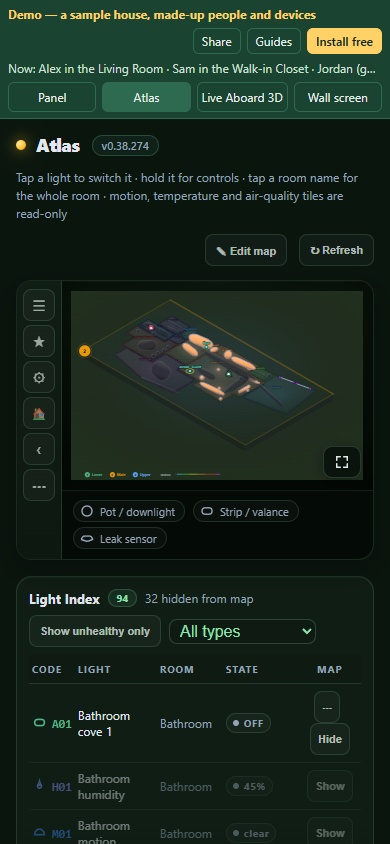
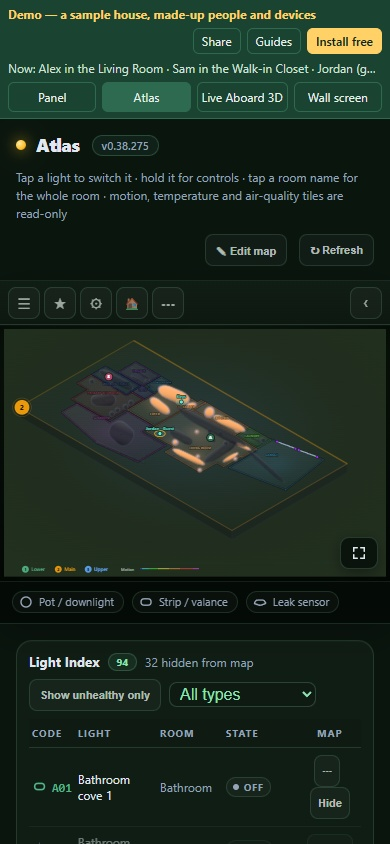
Atlas names: more room around badges and tags' names, finer spots in narrow rooms; demo pictures re-shot
The people layer keeps a little room around a badge or a tag's name, and a
name has up to ten spots half a name apart (a narrow closet had three, all
within one badge's reach). Re-shot: estate-phone-atlas, estate-wall-atlas,
estate-wall-atlas-4k.

diff --git a/custom_components/padspan_ha/www/padspan-ha/views/iso_lights.js b/custom_components/padspan_ha/www/padspan-ha/views/iso_lights.js
@@ -2086,7 +2086,7 @@ export function pointInPolygon(pts, x, y){
 // and the middle third of the name is always inside the room (only a room
 // too small for that takes a spot whose middle is inside). Each is scored by
 // its cover, then how much of the name hangs past the room's edge, then how
-// far it is from `at`. The best `max`, none on top of another, best first,
+// far it is from `at`. The best `max`, each a half name or more from the others, best first,
 // each [x, y, its cover]: the first is where the name goes, the rest where
 // it can go when someone walks over it.
 export const LABEL_TEXT=1000, LABEL_LIT=150, LABEL_DIM=30;
@@ -2108,7 +2108,7 @@ export function labelSpots(poly, hw, hh, at, cover, max=1, also=[]){
   const best=[];
   for(const p of (mid.length ? mid : edge).sort((a,b)=>a[3]-b[3])){
     if(best.length>=max) break;
-    if(best.every(q=>Math.abs(q[0]-p[0])>=2*hw || Math.abs(q[1]-p[1])>=2*hh)) best.push([+p[0].toFixed(1), +p[1].toFixed(1), p[2]]);
+    if(best.every(q=>Math.abs(q[0]-p[0])>=hw || Math.abs(q[1]-p[1])>=hh)) best.push([+p[0].toFixed(1), +p[1].toFixed(1), p[2]]);
   }
   return best;
 }
@@ -5943,14 +5943,14 @@ export function buildIsoSVG(model, byRoom, hiddenEids, focusZ, floorGap, horizGa
         const cover=(x,y)=>coverOf(x,y,nhw,nhh,nearC,nearB)+(placedLabels.some(p=>Math.abs(p.x-x)<(p.w+rw)/2 && Math.abs(p.y-y)<(p.h+rh)/2)?LABEL_TEXT:0);
         nameCover=cover(lix,liy);
         if(nameCover>0 || NAME_SPOTS){
-          const best=labelSpots(ipts, nhw, nhh, [ccx+(topIx[0]-ccx)*TOP_BLEND, ccy+(topIx[1]-ccy)*TOP_BLEND], cover, NAME_SPOTS?7:1, [[lix,liy]]);
+          const best=labelSpots(ipts, nhw, nhh, [ccx+(topIx[0]-ccx)*TOP_BLEND, ccy+(topIx[1]-ccy)*TOP_BLEND], cover, NAME_SPOTS?11:1, [[lix,liy]]);
           if(nameCover>0 && best.length) [lix,liy,nameCover]=best[0];
           // Where the people layer may move it: its spot first, then the others it reads at (drawn over the
           // markers, below, a name reads anywhere but under text; under them, nowhere under a lit fixture).
           if(NAME_SPOTS){
             const reads=nameCover>0 ? LABEL_TEXT : LABEL_LIT;
             NAME_SPOTS.set(`${z}|${r.room}`, { ink:[nhw, nhh], spots:[[+lix.toFixed(1), +liy.toFixed(1)],
-              ...best.filter(([x,y,c])=>c<reads && (Math.abs(x-lix)>=2*nhw || Math.abs(y-liy)>=2*nhh)).map(([x,y])=>[x,y])].slice(0,6) });
+              ...best.filter(([x,y,c])=>c<reads && (Math.abs(x-lix)>=nhw || Math.abs(y-liy)>=nhh)).map(([x,y])=>[x,y])].slice(0,10) });
           }
         }
         placedLabels.push({x:lix, y:liy, w:rw, h:rh});

diff --git a/custom_components/padspan_ha/www/padspan-ha/views/atlas_aboard.js b/custom_components/padspan_ha/www/padspan-ha/views/atlas_aboard.js
@@ -354,16 +354,17 @@ function createLiveLayer(slot){
   // that is free again. Its tap box goes with it.
   function clearNames(){
     if (!svg || typeof svg.querySelectorAll !== "function" || !d || !(d.names instanceof Map)) return;
-    const over = [];                          // [z, x0, y0, x1, y1]: what is drawn on top of the names, as it stands now
+    // [z, x0, y0, x1, y1]: what is drawn on top of the names, as it stands now, with a little room around it.
+    const over = [];
     for (const it of items.values()) {
       if (!it.at || it.g.style.display === "none") continue;
       const [x, y] = it.at, z = it.m[2];
-      if (it.kind === "person") over.push([z, x - 9.5, y - 9.5, x + 9.5, y + 9.5]);
-      else if (it.kind === "scanner") over.push([z, x - 4.5, y - 4.5, x + 4.5, y + 4.5]);
+      if (it.kind === "person") over.push([z, x - 11, y - 11, x + 11, y + 11]);
+      else if (it.kind === "scanner") over.push([z, x - 6, y - 6, x + 6, y + 6]);
       else {
-        over.push([z, x - 5, y - 5, x + 5, y + 5]);
+        over.push([z, x - 6.5, y - 6.5, x + 6.5, y + 6.5]);
         const n = it.parts.name ? it.parts.name.textContent.length : 0;
-        if (n) over.push([z, x - n * 2.6 - 1.5, y - 15.5, x + n * 2.6 + 1.5, y - 5]);   // 9 px type, its baseline 8 above the dot
+        if (n) over.push([z, x - n * 2.6 - 2.5, y - 16.5, x + n * 2.6 + 2.5, y - 4]);   // 9 px type, its baseline 8 above the dot
       }
     }
     // A name drawn over its room's markers (g.lroom-name: no spot in the room was clear) goes with its tap box.
